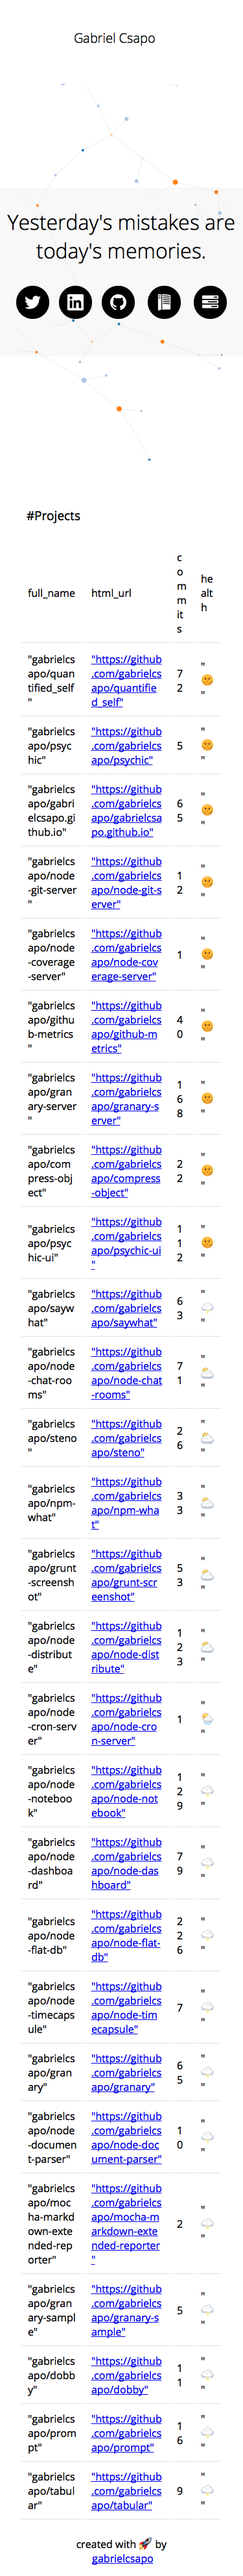
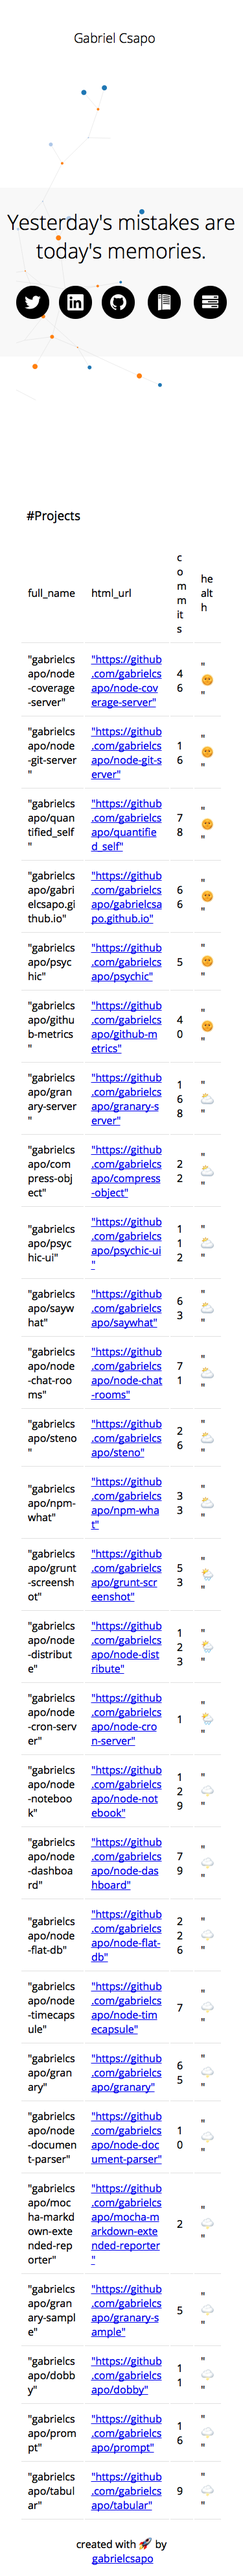
updates stats

diff --git a/index.html b/index.html
@@ -494,7 +494,19 @@ svg.directed-graph {
                   <tbody>
                     
                         <tr>
-                          <td>"gabrielcsapo/quantified_self"</td><td><a href="https://github.com/gabrielcsapo/quantified_self">"https://github.com/gabrielcsapo/quantified_self"</a></td><td>72</td><td>"🌞"</td>
+                          <td>"gabrielcsapo/node-coverage-server"</td><td><a href="https://github.com/gabrielcsapo/node-coverage-server">"https://github.com/gabrielcsapo/node-coverage-server"</a></td><td>46</td><td>"🌞"</td>
+                        </tr>
+                      
+                        <tr>
+                          <td>"gabrielcsapo/node-git-server"</td><td><a href="https://github.com/gabrielcsapo/node-git-server">"https://github.com/gabrielcsapo/node-git-server"</a></td><td>16</td><td>"🌞"</td>
+                        </tr>
+                      
+                        <tr>
+                          <td>"gabrielcsapo/quantified_self"</td><td><a href="https://github.com/gabrielcsapo/quantified_self">"https://github.com/gabrielcsapo/quantified_self"</a></td><td>78</td><td>"🌞"</td>
+                        </tr>
+                      
+                        <tr>
+                          <td>"gabrielcsapo/gabrielcsapo.github.io"</td><td><a href="https://github.com/gabrielcsapo/gabrielcsapo.github.io">"https://github.com/gabrielcsapo/gabrielcsapo.github.io"</a></td><td>66</td><td>"🌞"</td>
                         </tr>
                       
                         <tr>
@@ -502,35 +514,23 @@ svg.directed-graph {
                         </tr>
                       
                         <tr>
-                          <td>"gabrielcsapo/gabrielcsapo.github.io"</td><td><a href="https://github.com/gabrielcsapo/gabrielcsapo.github.io">"https://github.com/gabrielcsapo/gabrielcsapo.github.io"</a></td><td>65</td><td>"🌞"</td>
-                        </tr>
-                      
-                        <tr>
-                          <td>"gabrielcsapo/node-git-server"</td><td><a href="https://github.com/gabrielcsapo/node-git-server">"https://github.com/gabrielcsapo/node-git-server"</a></td><td>12</td><td>"🌞"</td>
-                        </tr>
-                      
-                        <tr>
-                          <td>"gabrielcsapo/node-coverage-server"</td><td><a href="https://github.com/gabrielcsapo/node-coverage-server">"https://github.com/gabrielcsapo/node-coverage-server"</a></td><td>1</td><td>"🌞"</td>
-                        </tr>
-                      
-                        <tr>
                           <td>"gabrielcsapo/github-metrics"</td><td><a href="https://github.com/gabrielcsapo/github-metrics">"https://github.com/gabrielcsapo/github-metrics"</a></td><td>40</td><td>"🌞"</td>
                         </tr>
                       
                         <tr>
-                          <td>"gabrielcsapo/granary-server"</td><td><a href="https://github.com/gabrielcsapo/granary-server">"https://github.com/gabrielcsapo/granary-server"</a></td><td>168</td><td>"🌞"</td>
+                          <td>"gabrielcsapo/granary-server"</td><td><a href="https://github.com/gabrielcsapo/granary-server">"https://github.com/gabrielcsapo/granary-server"</a></td><td>168</td><td>"⛅"</td>
                         </tr>
                       
                         <tr>
-                          <td>"gabrielcsapo/compress-object"</td><td><a href="https://github.com/gabrielcsapo/compress-object">"https://github.com/gabrielcsapo/compress-object"</a></td><td>22</td><td>"🌞"</td>
+                          <td>"gabrielcsapo/compress-object"</td><td><a href="https://github.com/gabrielcsapo/compress-object">"https://github.com/gabrielcsapo/compress-object"</a></td><td>22</td><td>"⛅"</td>
                         </tr>
                       
                         <tr>
-                          <td>"gabrielcsapo/psychic-ui"</td><td><a href="https://github.com/gabrielcsapo/psychic-ui">"https://github.com/gabrielcsapo/psychic-ui"</a></td><td>112</td><td>"🌞"</td>
+                          <td>"gabrielcsapo/psychic-ui"</td><td><a href="https://github.com/gabrielcsapo/psychic-ui">"https://github.com/gabrielcsapo/psychic-ui"</a></td><td>112</td><td>"⛅"</td>
                         </tr>
                       
                         <tr>
-                          <td>"gabrielcsapo/saywhat"</td><td><a href="https://github.com/gabrielcsapo/saywhat">"https://github.com/gabrielcsapo/saywhat"</a></td><td>63</td><td>"🌩"</td>
+                          <td>"gabrielcsapo/saywhat"</td><td><a href="https://github.com/gabrielcsapo/saywhat">"https://github.com/gabrielcsapo/saywhat"</a></td><td>63</td><td>"⛅"</td>
                         </tr>
                       
                         <tr>
@@ -546,11 +546,11 @@ svg.directed-graph {
                         </tr>
                       
                         <tr>
-                          <td>"gabrielcsapo/grunt-screenshot"</td><td><a href="https://github.com/gabrielcsapo/grunt-screenshot">"https://github.com/gabrielcsapo/grunt-screenshot"</a></td><td>53</td><td>"⛅"</td>
+                          <td>"gabrielcsapo/grunt-screenshot"</td><td><a href="https://github.com/gabrielcsapo/grunt-screenshot">"https://github.com/gabrielcsapo/grunt-screenshot"</a></td><td>53</td><td>"🌦"</td>
                         </tr>
                       
                         <tr>
-                          <td>"gabrielcsapo/node-distribute"</td><td><a href="https://github.com/gabrielcsapo/node-distribute">"https://github.com/gabrielcsapo/node-distribute"</a></td><td>123</td><td>"⛅"</td>
+                          <td>"gabrielcsapo/node-distribute"</td><td><a href="https://github.com/gabrielcsapo/node-distribute">"https://github.com/gabrielcsapo/node-distribute"</a></td><td>123</td><td>"🌦"</td>
                         </tr>
                       
                         <tr>
